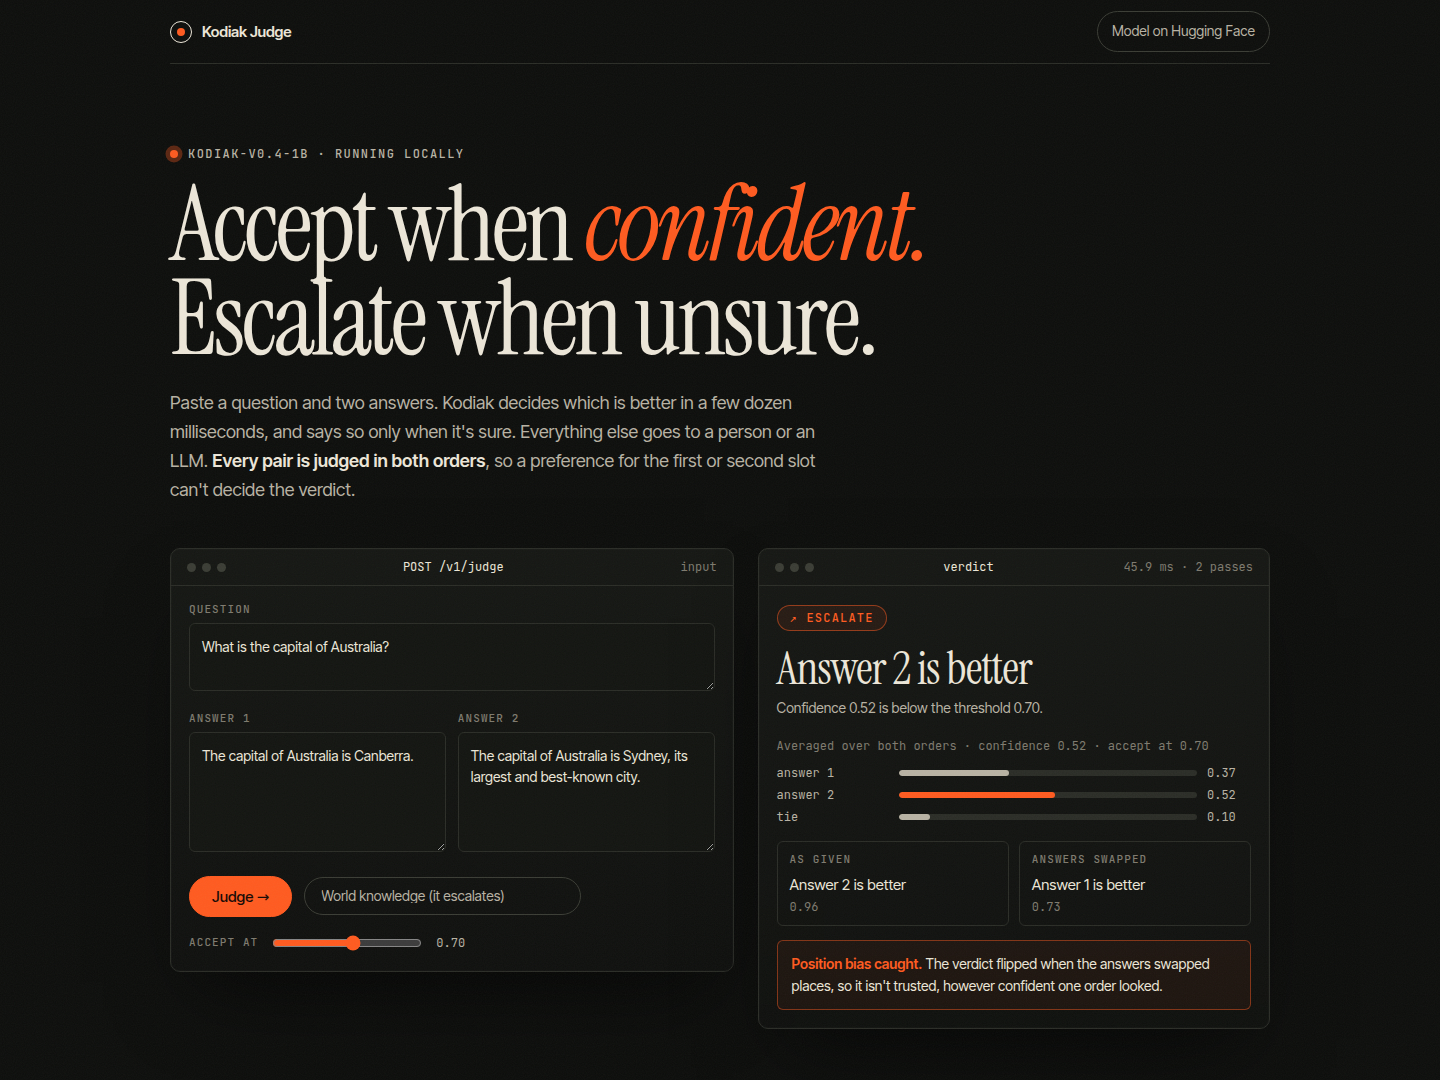
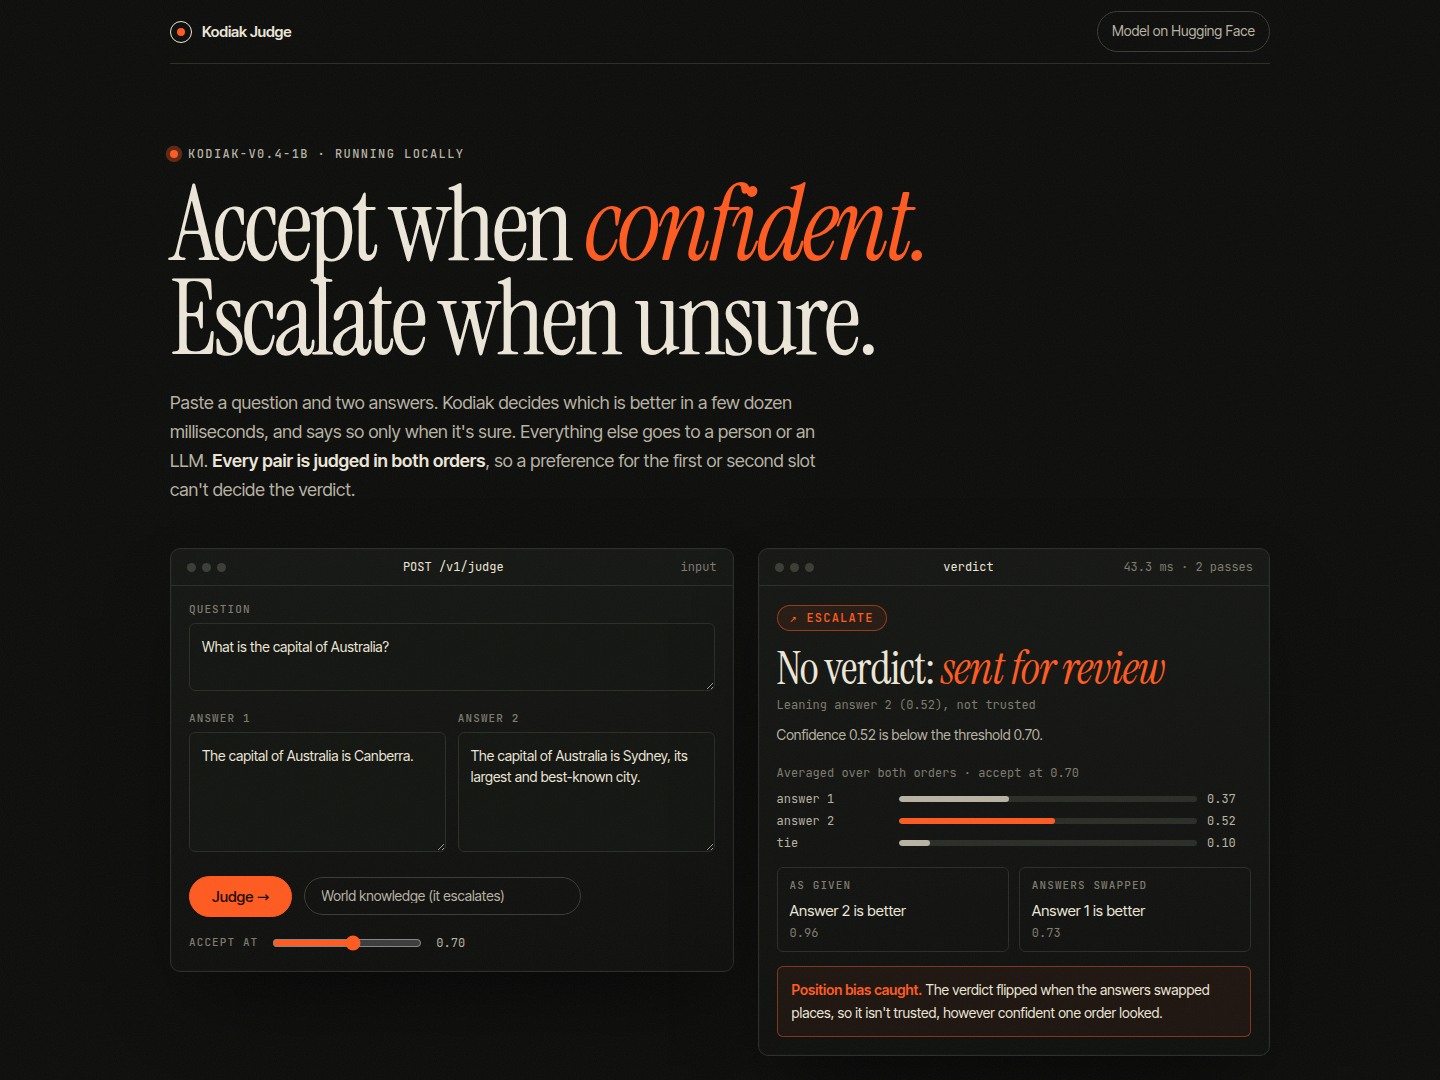
Escalated pairs show no verdict, only a marked lean; refreshed screenshots

Changed region(s): [[0.5312, 0.6111, 0.875, 0.9472], [0.7812, 0.6722, 0.8125, 0.7028]]

diff --git a/kodiak_judge/static/index.html b/kodiak_judge/static/index.html
@@ -71,6 +71,7 @@ input[type=range] { width: 150px; accent-color: var(--accent); }
 .badge.accept { color: var(--ice); border: 1px solid rgba(159,211,208,.45); background: rgba(159,211,208,.08); }
 .badge.escalate { color: var(--accent); border: 1px solid rgba(255,90,31,.5); background: rgba(255,90,31,.08); }
 .verdict { font: 400 clamp(34px, 3.6vw, 46px)/1 var(--serif); letter-spacing: -0.02em; margin: 14px 0 6px; }
+.verdict em { color: var(--accent); }
 .reason { color: var(--ink-2); font-size: 14px; margin: 0 0 18px; }
 .meta { font: 400 12px/1.4 var(--mono); color: var(--mute); }
 .bars { display: grid; gap: 10px; margin: 6px 0 4px; }
@@ -220,9 +221,12 @@ async function run() {
     $("ms").textContent = `${d.ms} ms · 2 passes`;
     $("out").innerHTML = `
       <span class="badge ${d.action}">${d.action === "accept" ? "● ACCEPT" : "↗ ESCALATE"}</span>
-      <div class="verdict">${NAMES[d.verdict]}</div>
+      ${d.action === "accept"
+        ? `<div class="verdict">${NAMES[d.verdict]}</div>`
+        : `<div class="verdict">No verdict: <em>sent for review</em></div>
+           <p class="meta" style="margin:0 0 10px">Leaning ${SHORT[d.verdict]} (${d.confidence.toFixed(2)}), not trusted</p>`}
       <p class="reason">${esc(d.reason[0].toUpperCase() + d.reason.slice(1))}.</p>
-      <p class="meta">Averaged over both orders · confidence ${d.confidence.toFixed(2)} · accept at ${d.threshold.toFixed(2)}</p>
+      <p class="meta">Averaged over both orders · accept at ${d.threshold.toFixed(2)}</p>
       ${bars(d.probs)}
       <div class="orders">
         <div class="ord"><div class="k">As given</div><div class="v">${NAMES[o.as_given.verdict]}</div><div class="c">${topP(o.as_given.probs).toFixed(2)}</div></div>

diff --git a/README.md b/README.md
@@ -59,6 +59,7 @@ curl http://127.0.0.1:8790/v1/judge -H 'Content-Type: application/json' \
  "orders": {"as_given": {"verdict": "first"}, "swapped": {"verdict": "first"}, "disagree": false}, "ms": 50.7}
 ```
 
+- When `action` is `"escalate"`, treat `verdict` as a lean, not an answer.
 - `POST /v1/judge/batch` with `{"items": [{"question", "answer_1", "answer_2"}, ...]}` (up to 64 pairs)
 - `GET /v1/info`: model, default threshold and the measured curve
 - `GET /health`
